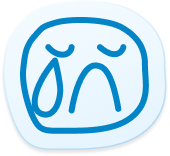
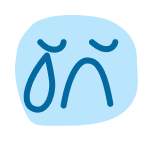
Update quick log sticker options

diff --git a/src/components/domain/quick-log-card.tsx b/src/components/domain/quick-log-card.tsx
@@ -1,5 +1,9 @@
 import { useMemo, useState } from "react";
 import { Check, ChevronRight } from "lucide-react";
+import energyFullSticker from "../../assets/energy/full.png";
+import energyHighSticker from "../../assets/energy/high.png";
+import energyLowSticker from "../../assets/energy/low.png";
+import energyMidSticker from "../../assets/energy/mid.png";
 import { Card } from "../ui/card";
 import { Button } from "../ui/button";
 import { Sheet } from "../ui/sheet";
@@ -10,6 +14,7 @@ import { useCycleStore } from "../../features/cycle/store";
 import { getChoiceTileClass, uiSpacingStyles, uiTextStyles } from "../ui/styles";
 import { formatFullDate } from "../../lib/utils";
 import { getMoodOption, moodOptions, type MoodValue } from "./mood-options";
+import { stickerShadowStyles } from "./mood-sticker-styles";
 
 const moodStickerLayout: Record<
   MoodValue,
@@ -20,20 +25,21 @@ const moodStickerLayout: Record<
   }
 > = {
   great: { rotate: "-rotate-[7deg]", placement: "-left-1 top-1" },
-  happy: { rotate: "-rotate-[4deg]", placement: "left-[20%] top-[3.5rem] sm:top-16", imageSize: "h-[3.75rem] sm:h-[4.25rem]" },
-  calm: { rotate: "rotate-[8deg]", placement: "left-1/2 top-2 -translate-x-1/2" },
+  happy: { rotate: "-rotate-[4deg]", placement: "left-[20%] top-[3.5rem] sm:top-16", imageSize: "h-[4.25rem] sm:h-[4.75rem]" },
+  calm: { rotate: "rotate-[8deg]", placement: "left-1/2 top-2 -translate-x-1/2", imageSize: "h-[3rem] sm:h-[3.5rem]" },
   unhappy: { rotate: "rotate-[5deg]", placement: "right-[19%] top-[3.7rem] sm:top-[4.15rem]" },
   sad: { rotate: "rotate-[6deg]", placement: "-right-1 top-1" }
 };
 
 const noSymptomLabel = "没有不适";
 const energyOptions = [
-  { label: "低", value: "low" },
-  { label: "中", value: "medium" },
-  { label: "较高", value: "higher" },
-  { label: "高", value: "high" }
+  { label: "低", value: "low", imageSrc: energyLowSticker, rotate: "-rotate-[5deg]" },
+  { label: "中", value: "medium", imageSrc: energyMidSticker, rotate: "rotate-[3deg]" },
+  { label: "较高", value: "higher", imageSrc: energyHighSticker, rotate: "-rotate-[2deg]" },
+  { label: "高", value: "high", imageSrc: energyFullSticker, rotate: "rotate-[4deg]" }
 ] as const;
-const symptomOptions = ["疲惫", "头痛", "乳房胀痛", "腹胀", "腹痛", "腰酸"];
+const symptomOptions = ["疲惫", "头痛", "乳房胀痛", "腹痛", "腰痛"];
+const symptomStickerRotations = ["-rotate-[3deg]", "rotate-[2deg]", "-rotate-[1deg]", "rotate-[3deg]", "-rotate-[2deg]", "rotate-[1deg]"] as const;
 const flowOptions = [
   { label: "无", value: "none" },
   { label: "点滴", value: "spotting" },
@@ -114,7 +120,11 @@ function MoodSticker({
       <img
         src={imageSrc}
         alt=""
-        className={cn("w-auto object-contain", layout.imageSize ?? "h-14 sm:h-16")}
+        className={cn(
+          "w-auto object-contain",
+          stickerShadowStyles.regular,
+          layout.imageSize ?? "h-14 sm:h-16"
+        )}
         aria-hidden="true"
       />
     </button>
@@ -130,14 +140,141 @@ function MoodValue({ mood }: { mood?: DailyEntry["mood"] }) {
 
   return (
     <span className="inline-flex items-center gap-2">
-      <img src={moodItem.imageSrc} alt="" className="h-8 w-8 object-contain" aria-hidden="true" />
+      <img
+        src={moodItem.imageSrc}
+        alt=""
+        className={cn("h-8 w-8 object-contain", stickerShadowStyles.compact)}
+        aria-hidden="true"
+      />
       <span>{moodItem.label}</span>
     </span>
   );
 }
 
 function EnergyValue({ energy }: { energy?: DailyEntry["energy"] }) {
-  return energyOptions.find((item) => item.value === energy)?.label ?? "未记录";
+  const energyItem = energyOptions.find((item) => item.value === energy);
+
+  if (!energyItem) {
+    return <>未记录</>;
+  }
+
+  return (
+    <span className="inline-flex items-center gap-2">
+      <img
+        src={energyItem.imageSrc}
+        alt=""
+        className={cn("h-7 w-auto object-contain", stickerShadowStyles.compact)}
+        aria-hidden="true"
+      />
+      <span>{energyItem.label}</span>
+    </span>
+  );
+}
+
+function EnergyStickerButton({
+  active,
+  imageSrc,
+  label,
+  rotate,
+  onClick
+}: {
+  active: boolean;
+  imageSrc: string;
+  label: string;
+  rotate: string;
+  onClick: () => void;
+}) {
+  return (
+    <button
+      type="button"
+      onClick={onClick}
+      aria-label={label}
+      title={label}
+      className={cn(
+        "inline-flex min-h-[4.25rem] items-center justify-center rounded-[var(--radius-lg)] border bg-transparent p-1.5 transition duration-200 active:scale-[0.98]",
+        rotate,
+        active
+          ? "border-[color:var(--foreground)] shadow-[0_0_0_1px_var(--foreground)_inset]"
+          : "border-transparent hover:-translate-y-0.5"
+      )}
+    >
+      <img
+        src={imageSrc}
+        alt=""
+        className={cn("h-[3.4rem] w-auto object-contain sm:h-[3.7rem]", stickerShadowStyles.regular)}
+        aria-hidden="true"
+      />
+    </button>
+  );
+}
+
+function OutlinedStickerText({ label }: { label: string }) {
+  const width = label.length * 24 + 32;
+
+  return (
+    <svg
+      width={width}
+      height="42"
+      viewBox={`0 0 ${width} 42`}
+      className="block overflow-visible"
+      aria-hidden="true"
+    >
+      <text
+        x={width / 2}
+        y="29"
+        textAnchor="middle"
+        fontSize="19"
+        fontWeight="900"
+        fontFamily="inherit"
+        stroke="white"
+        strokeWidth="8"
+        strokeLinejoin="round"
+        strokeLinecap="round"
+      >
+        {label}
+      </text>
+      <text
+        x={width / 2}
+        y="29"
+        textAnchor="middle"
+        fontSize="19"
+        fontWeight="900"
+        fontFamily="inherit"
+        fill="var(--foreground)"
+      >
+        {label}
+      </text>
+    </svg>
+  );
+}
+
+function SymptomStickerButton({
+  active,
+  label,
+  rotate,
+  onClick
+}: {
+  active: boolean;
+  label: string;
+  rotate: string;
+  onClick: () => void;
+}) {
+  return (
+    <button
+      type="button"
+      onClick={onClick}
+      className={cn(
+        "inline-flex min-h-10 items-center justify-center rounded-full bg-transparent px-1 py-0.5 transition duration-200 active:scale-[0.98]",
+        "drop-shadow-[0_2px_2px_rgba(15,23,42,0.1)]",
+        rotate,
+        active
+          ? "shadow-[0_0_0_1px_var(--foreground)_inset]"
+          : "hover:-translate-y-0.5"
+      )}
+    >
+      <OutlinedStickerText label={label} />
+    </button>
+  );
 }
 
 function parseDateKey(dateKey: string) {
@@ -233,12 +370,14 @@ export function CompletedLogDetails({ entry, onChange }: CompletedLogDetailsProp
 
       <div className="grid gap-3">
         <p className={questionClassName}>感觉体内的能量如何？</p>
-        <div className="flex flex-wrap gap-2">
+        <div className="grid grid-cols-4 gap-1.5">
           {energyOptions.map((energy) => (
-            <SelectionPill
+            <EnergyStickerButton
               key={energy.value}
               active={entry?.energy === energy.value}
+              imageSrc={energy.imageSrc}
               label={energy.label}
+              rotate={energy.rotate}
               onClick={() => onChange({ energy: energy.value })}
             />
           ))}
@@ -247,13 +386,19 @@ export function CompletedLogDetails({ entry, onChange }: CompletedLogDetailsProp
 
       <div className="grid gap-3">
         <p className={questionClassName}>身体有什么信号？</p>
-        <div className="flex flex-wrap gap-2">
-          <SelectionPill active={noSymptomSelected} label={noSymptomLabel} onClick={() => onChange({ symptoms: [] })} />
-          {symptomOptions.map((symptom) =>
-            <SelectionPill
+        <div className="flex flex-wrap gap-2.5">
+          <SymptomStickerButton
+            active={noSymptomSelected}
+            label={noSymptomLabel}
+            rotate="rotate-[2deg]"
+            onClick={() => onChange({ symptoms: [] })}
+          />
+          {symptomOptions.map((symptom, index) =>
+            <SymptomStickerButton
               key={symptom}
               active={Boolean(entry?.symptoms?.includes(symptom))}
               label={symptom}
+              rotate={symptomStickerRotations[index % symptomStickerRotations.length]}
               onClick={() => {
                 const previous = new Set(entry?.symptoms ?? []);
                 if (noSymptomSelected) {
@@ -472,20 +617,22 @@ export function QuickLogCard({
             <p className={questionClassName}>感觉体内的能量如何？</p>
             <p className={cn("text-sm font-medium", uiTextStyles.muted)}>{progressText}</p>
           </div>
-          <div className="mt-4 grid grid-cols-4 gap-2">
-            {energyOptions.map((energy) => (
-              <button
-                key={energy.value}
-                type="button"
-                onClick={() => {
-                  updateEntry(date, { energy: energy.value });
-                  setStepOverride("symptoms");
-                }}
-                className={getChoiceTileClass(entry?.energy === energy.value)}
-              >
-                {energy.label}
-              </button>
-            ))}
+          <div className="mt-4 rounded-[calc(var(--radius-xl)+10px)] bg-[linear-gradient(180deg,rgba(255,255,255,0.84),rgba(255,255,255,0.56))] px-2 py-3">
+            <div className="grid grid-cols-4 gap-1.5">
+              {energyOptions.map((energy) => (
+                <EnergyStickerButton
+                  key={energy.value}
+                  active={entry?.energy === energy.value}
+                  imageSrc={energy.imageSrc}
+                  label={energy.label}
+                  rotate={energy.rotate}
+                  onClick={() => {
+                    updateEntry(date, { energy: energy.value });
+                    setStepOverride("symptoms");
+                  }}
+                />
+              ))}
+            </div>
           </div>
         </>
       );
@@ -498,22 +645,24 @@ export function QuickLogCard({
             <p className={questionClassName}>身体有什么信号？</p>
             <p className={cn("text-sm font-medium", uiTextStyles.muted)}>{progressText}</p>
           </div>
-          <div className="mt-4 flex flex-wrap gap-2">
-            <SelectionPill
+          <div className="mt-4 flex flex-wrap gap-2.5">
+            <SymptomStickerButton
               active={noSymptomSelected}
               label={noSymptomLabel}
+              rotate="rotate-[2deg]"
               onClick={() => {
                 updateEntry(date, { symptoms: [] });
                 setStepOverride("symptoms");
               }}
             />
-            {symptomOptions.map((symptom) => {
+            {symptomOptions.map((symptom, index) => {
               const active = entry?.symptoms?.includes(symptom);
               return (
-                <SelectionPill
+                <SymptomStickerButton
                   key={symptom}
                   active={Boolean(active)}
                   label={symptom}
+                  rotate={symptomStickerRotations[index % symptomStickerRotations.length]}
                   onClick={() => {
                     const previous = new Set(entry?.symptoms ?? []);
                     if (noSymptomSelected) {
@@ -531,7 +680,7 @@ export function QuickLogCard({
               );
             })}
           </div>
-          <div className={cn(uiSpacingStyles.sectionTop, "flex flex-wrap items-center", uiSpacingStyles.gapSm)}>
+          <div className={cn(uiSpacingStyles.sectionTop, "flex flex-wrap items-center justify-end", uiSpacingStyles.gapSm)}>
             <Button
               variant="primary"
               onClick={() => setStepOverride(null)}

diff --git a/src/components/domain/mood-options.ts b/src/components/domain/mood-options.ts
@@ -1,9 +1,9 @@
 import type { DailyEntry } from "../../features/cycle/types";
-import boredSticker from "../../assets/mood/bored.png";
 import calmSticker from "../../assets/mood/calm.png";
+import greatSticker from "../../assets/mood/great.png";
 import happySticker from "../../assets/mood/happy.png";
-import notHappySticker from "../../assets/mood/not_happy.png";
 import sadSticker from "../../assets/mood/sad.png";
+import unhappySticker from "../../assets/mood/unhappy.png";
 
 export type MoodValue = NonNullable<DailyEntry["mood"]>;
 
@@ -12,10 +12,10 @@ export const moodOptions: Array<{
   value: MoodValue;
   imageSrc: string;
 }> = [
-  { label: "超开心", value: "great", imageSrc: happySticker },
-  { label: "开心", value: "happy", imageSrc: calmSticker },
-  { label: "平静", value: "calm", imageSrc: boredSticker },
-  { label: "不乐", value: "unhappy", imageSrc: notHappySticker },
+  { label: "超开心", value: "great", imageSrc: greatSticker },
+  { label: "开心", value: "happy", imageSrc: happySticker },
+  { label: "平静", value: "calm", imageSrc: calmSticker },
+  { label: "不乐", value: "unhappy", imageSrc: unhappySticker },
   { label: "难过", value: "sad", imageSrc: sadSticker }
 ];
 

diff --git a/src/components/domain/calendar-month-card.tsx b/src/components/domain/calendar-month-card.tsx
@@ -3,6 +3,7 @@ import type { CycleProfile, DailyEntry } from "../../features/cycle/types";
 import { cn } from "../../lib/utils";
 import { uiTextStyles } from "../ui/styles";
 import { getMoodOption } from "./mood-options";
+import { stickerShadowStyles } from "./mood-sticker-styles";
 
 type CalendarMonthCardProps = {
   monthDate: Date;
@@ -108,7 +109,7 @@ function DayCellContent({
           src={moodSticker.imageSrc}
           alt=""
           title={moodSticker.label}
-          className="mt-1.5 h-8 w-8 object-contain"
+          className={cn("mt-1.5 h-8 w-8 object-contain", stickerShadowStyles.compact)}
           aria-hidden="true"
         />
       ) : null}

diff --git a/src/components/domain/mood-sticker-styles.ts b/src/components/domain/mood-sticker-styles.ts
@@ -1,0 +1,4 @@
+export const stickerShadowStyles = {
+  regular: "drop-shadow-[0_2px_2px_rgba(15,23,42,0.12)]",
+  compact: "drop-shadow-[0_1px_2px_rgba(15,23,42,0.1)]"
+} as const;
